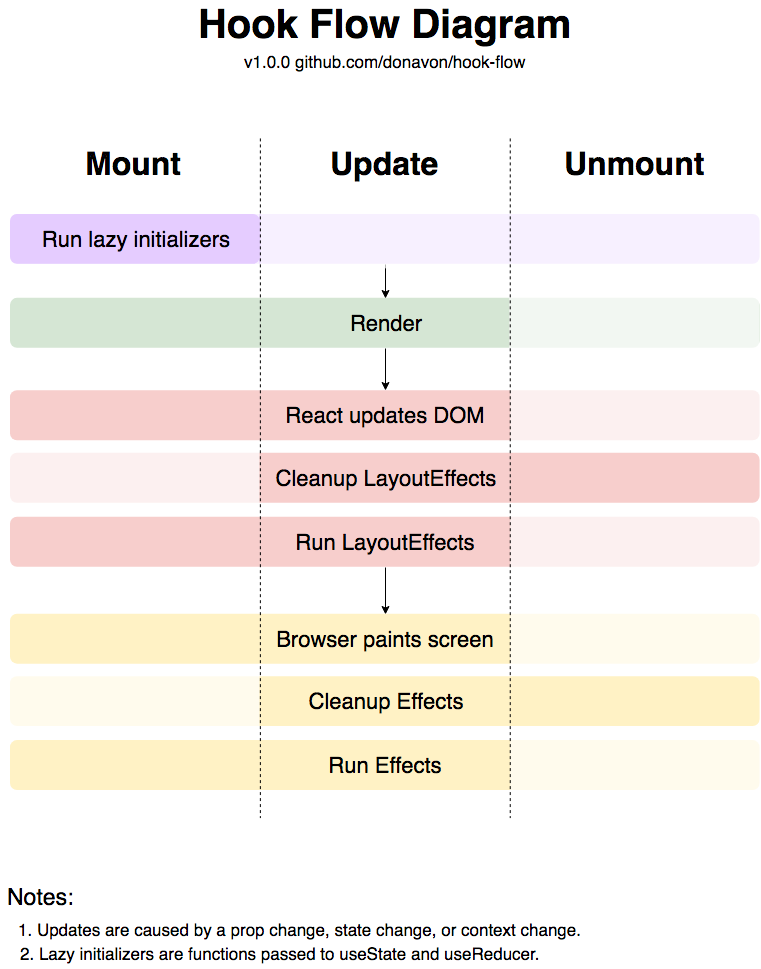
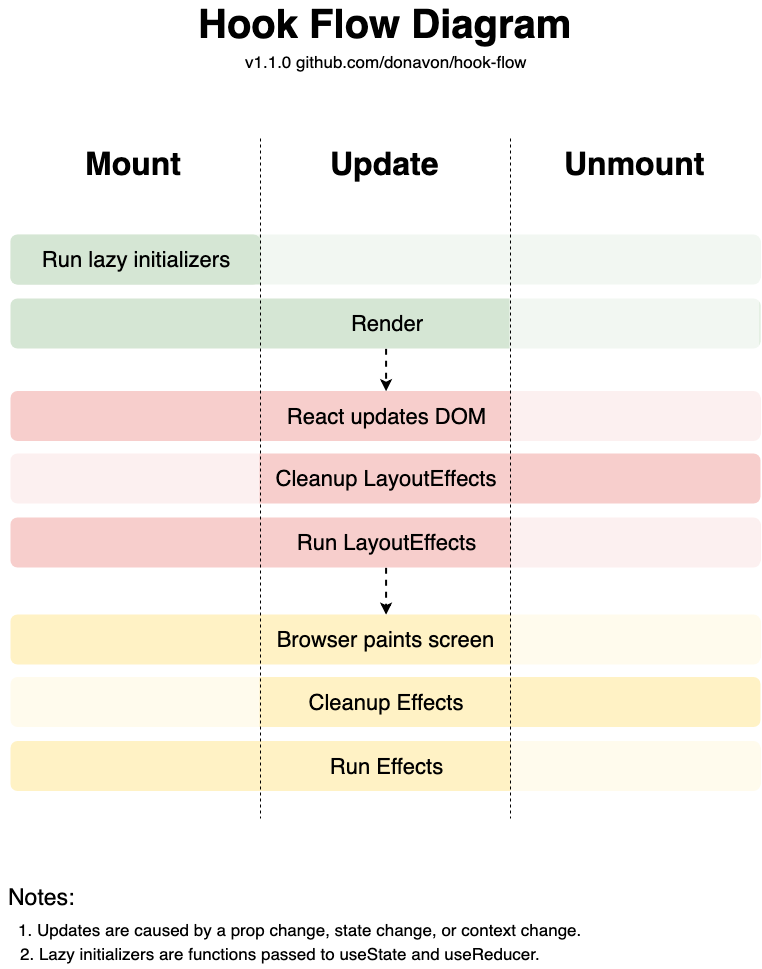
Version 1.1.0
* Make lazy initializers green
* Dashed flow arrows
* Added `npx hook-flow` utility to open in default browser

diff --git a/README.md b/README.md
@@ -12,6 +12,15 @@ This flow dragram is also available as a [PDF file](https://github.com/donavon/h
 <img src="https://raw.githubusercontent.com/donavon/hook-flow/master/hook-flow.png" alt="flow chart" width="400">
 </p>
 
+## Open in browser
+
+To quickly open the Hook Flow Diagram in your default browser, you can execute the following
+from your terminal. Commit this to memory! 😉
+
+```bash
+$ npx hook-flow
+```
+
 ## License
 
 **[MIT](LICENSE)** Licensed
